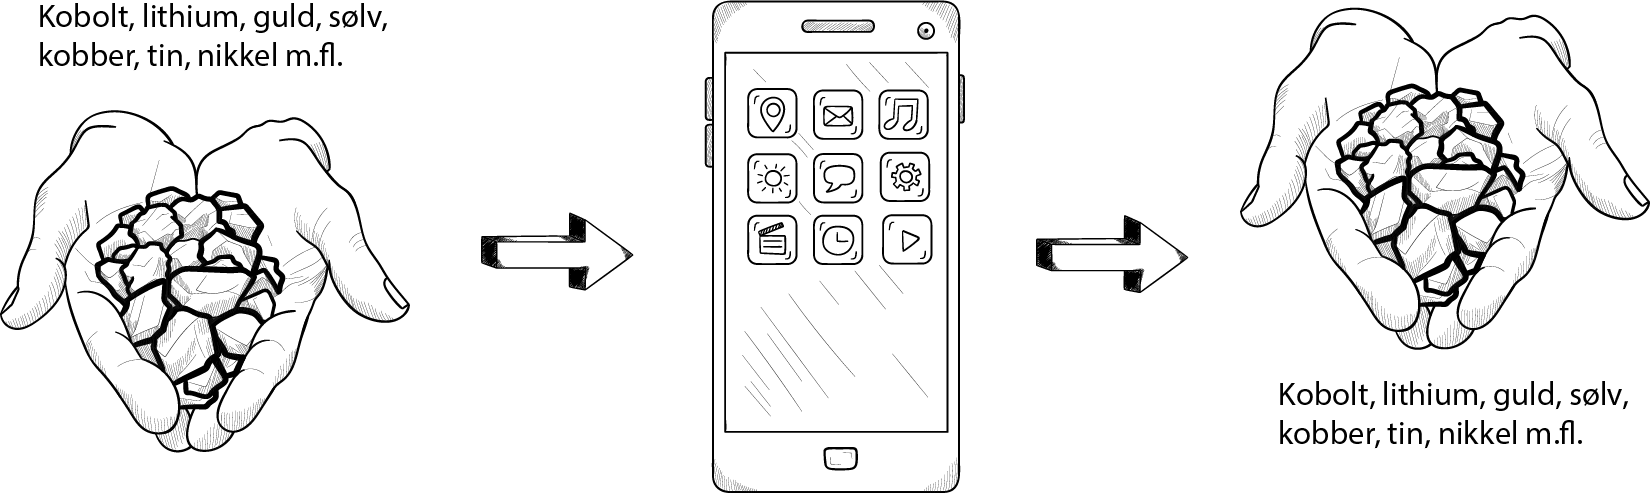
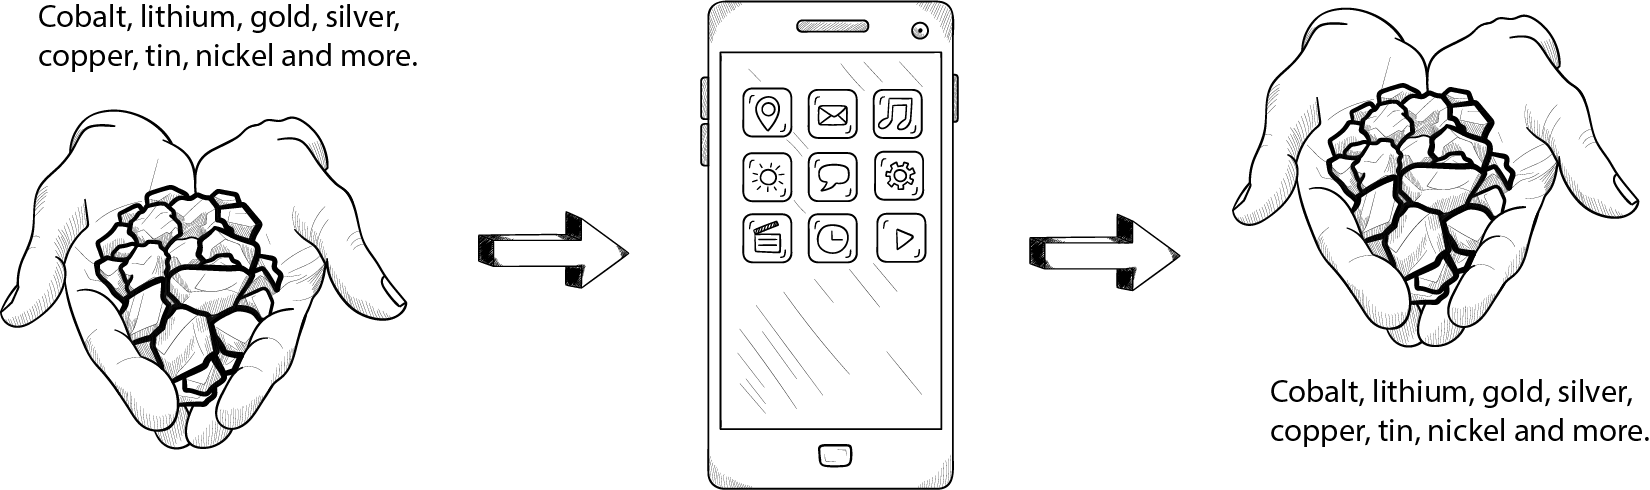
Still chapter one, but now also images, sources and internal links

diff --git a/manuscript/1-Introduction-to-sustainability.md b/manuscript/1-Introduction-to-sustainability.md
@@ -7,7 +7,17 @@ The goal of this chapter is to give you a glimpse of the great complexity which 
 When working with sustainability, these different disciplines are intertwined, requiring a holistic approach from those of us working with the digital aspects of sustainability.
 ## Why is sustainability important right now?
 
-Let's go through some weighty theories that empasize the urgency of taking action for sustainability in all areas, including the digital.
+Let's go through some weighty theories that empasize the urgency of taking action for sustainability in all areas, including the digital. Read about:
+
+- [The Anthropocene](#Anthropocene)
+- [Mass extinction](#mass-extinction)
+- Great Acceleration
+- Planetary boundaries
+- Climate change
+- Digital transformation
+- Your responsibility
+
+{#Anthropocene}
 ### 🛣️ This is the age of the Anthropocene
 The Anthropocene is the name of en epoch, beginning in the 20th century, in which human activities are affecting life on Earth to such an extent that they are causing both local and global changes in the global state of the Earth.  
 
@@ -16,6 +26,8 @@ In the past, geological processes had the greatest influence on life on Earth an
 This change is comparable to the major geological impacts on Earth in the past, such as major volcanic eruptions and meteor impacts. The Anthropocene Age heralds new times where humanity is not only responsible for its own future, but also holds the future of the entire planet in its hands.
 
 The human emission of greenhouse gases is one example, and the consequences for soil, plant and animal life, and thus for human life, are enormous.
+
+{#mass-extinction} 
 ### Sixth  mass extinction on the horizon 🦖
 In biology and ecology, we are also witnessing a historic and global event that scientists describe as the sixth great mass extinction, a process in which a great part of the Earth's different animal species become extinct within decades or centuries. The time we live in can be compared to the time when the dinosaurs went from being the dominant species on Earth to mass extinction.
 
@@ -34,33 +46,41 @@ Scientists have estimated limits for Earth's planetary subsystems in which human
 
 Developments in recent decades show that, unfortunately, we are increasingly exceeding these limits for sustainable global development, and that there is a risk of serious global consequences if we do not begin to respect these limits as soon as possible.
 ### Climate change 🌪️
-Current global development is neither durable nor sustainable. In the coming decades, we must turn all industrial (and digital) development in a sustainable direction to enable people to live a good life. We must be able to continuously improve and develop our world without fearing the long-term consequences of our actions in the form of droughts, floods, destruction of rainforests and landscapes, major political challenges, migration, and loss of life. We have an ethical obligation to protect nature, which is our origin and our future.
+Current global development is neither durable nor sustainable. In the coming decades, we must turn all industrial (and digital) development in a sustainable direction to enable people to live a good life. 
 
-With the help of scientists who continuously monitor this trend, a number of actions are underway globally that aim to change the trend to something more sustainable. But we will need every effort. That's why it's important that we incorporate sustainability into all our activities - including digital ones.
+We must be able to continuously improve and develop our world without fearing the long-term consequences of our actions in the form of droughts, floods, destruction of rainforests and landscapes, major political challenges, migration, and loss of life. We have an ethical obligation to protect nature, which is our origin and our future.
 
-### Information technology and digitization
-Information technology and digitization are amazing entities that day after day surprise us with the latest inventions, opportunities and challenges, shedding light on new aspects of our everyday lives - and our existence.
+With the help of scientists who continuously monitor global climate change, a number of actions are underway globally that aim to change the trend to something more sustainable ([Science Based Targets initiative](https://sciencebasedtargets.org/)). But we will need every effort. That's why it's important that we incorporate sustainability into all our activities - including digital ones.
+### Information technology and digital transformation 📡
+Information technology and digital transformation are amazing entities that surprise us every day with the latest inventions, opportunities and challenges, shedding light on new aspects of our everyday lives - and our existence.
 
-Social media, virtual worlds, sensor networks, autonomous agents, artificial intelligence, generative AI, machine learning, Internet of Things (IoT), data science.. All these IT concepts have emerged in recent years and are still evolving - while changing our world.
+Social media, virtual worlds, sensor networks, autonomous agents, artificial intelligence, generative AI, machine learning, Internet of Things (IoT), data science... All of these IT concepts have emerged in recent years and are still evolving as they change our world.
 
-Modern IT is accelerating science and research, and the computing power of processors and the efficiency of algorithms is growing year after year. It is now the pace of human cognition that is limiting the speed of development.
+Modern IT is accelerating science and research, and the computing power of processors and the efficiency of algorithms are increasing every year. It is now the speed of human cognition that limits the speed of development.
 
-IT and digitalization are two sides of the same coin. Digitalization focuses on people, organizations and their processes, and information technology focuses on the digital technologies themselves.
+Information technology and digital transformation are two sides of the same coin. Digital transformation focuses on people, organizations and their processes, and information technology focuses on the digital technologies themselves.
 
-- Digitization is the use of information technology by people and organizations.
-- Information technology is hardware, software and networks. Electronics, algorithms and systems.
+- Digital transformation is the use of information technology by people and organizations.
+- Information technology consists of hardware, software and networks: Electronics, algorithms and systems.
 
-There is no digitalization without technology, and technology also makes the most sense when viewed in the context of the people and organizations that use it. IT (like all technology) is artificial and man-made, and as such it is in direct opposition to nature and the environment.
-Nevertheless, technology and nature must be able to coexist in a mutual and positive interaction. And this is where sustainability must help create an inventive balance and exchange between technology, people, nature and the environment.
+![Technology and nature are opposites. But they shouldn't have to be.](resources/1.2.png "Technology and nature are opposites. But they shouldn't have to be.")
 
-### The individual's responsibility
-As an information technology and digitalization professional, what is your role in this global equation? Can IT and digitalization contribute to a better world and a more sustainable future if we use technology with long-term thinking?
+There is no digital transformation without technology, and technology also makes the most sense when viewed in the context of the people and organizations that use it. IT (like all technology) is artificial and man-made, and as such is in direct opposition to nature and the environment.
+
+However, technology and nature must be able to coexist in mutual and positive interaction. And this is where sustainability must help create an inventive balance and exchange between technology, people, nature and the environment.
+### Your responsibility
+As an information technology and digital professional, what is your role in this global equation? Can IT and digital development contribute to a better world and a more sustainable future if we use technology with long-term thinking?
 
 You may not be able to solve the sixth mass extinction event and balance nature in the Anthropocene era overnight, but many small steps - including your professional contribution to the sustainability agenda - will contribute to positive change in the world.
- 
 ## Sustainability concepts
-Let's continue by reviewing the key concepts that form the basis for working with sustainable digitalization in general. You may already be familiar with some of the concepts, but hopefully you can also read up on something new and exciting.
+Let's continue by reviewing the key concepts that form the basis for working with sustainable digital development in general. You may already be familiar with some of the concepts, but hopefully you can also read up on something new and exciting.
 
+- [Definition of sustainability](#Definition-of-sustainability)
+- Unsustainability
+- The hurdles to sustainability
+- ...
+
+{#Definition-of-sustainability}
 ### Definition of sustainability
 We can see sustainability as a path towards a brighter and more stable world both on an individual, societal and environmental level. Sustainability is a kind of long-term development where nature and the environment are respected and thrive.
 
@@ -68,44 +88,47 @@ Sustainable development helps us avoid major disasters in the future by addressi
 
 There are different definitions of sustainability, but one of the newer and more recognized definitions comes from the UN, which in 1983 established a World Commission on Environment and Development headed by the then Norwegian Prime Minister Gro Harlem Brundtland. The Commission's work resulted in a publication entitled Our Common Future - The Brundtland Commission Report on Environment and Development. 
 
-The report defines sustainable development as *"development that meets the needs of the present without compromising the ability of future generations to meet their own needs"* (Brundtland Commission 1987: XX). This definition is a good starting point for our work, but in the following we will also look at sustainable development from other angles. If sustainability is something that protects the possibilities of future generations, what is the opposite? Let's take a look at "unsustainability".
+The report defines sustainable development as *development that meets the needs of the present without compromising the ability of future generations to meet their own needs*. This definition is a good starting point for our work, but in the following we will also look at sustainable development from other angles. If sustainability is something that protects the possibilities of future generations, what is the opposite? Let's take a look at "unsustainability".
 ### Unsustainability
-Unsustainable products and services are defined by the fact that they often have serious, unwanted and far-reaching adverse impacts.
+Unsustainable products and services are defined by the fact that, despite their good value, they often have serious, unintended and far-reaching negative impacts in the long term.
 
-![Unsustainability](1.2.png "Unsustainability. The figure shows the short-term benefits and long-term problems that can be associated with unsustainable products.")
+|                                      | **Short-term (here and now) gain**                       | **Serious problems in the long term**                                                                                   |
+| ------------------------------------ | -------------------------------------------------------- | ----------------------------------------------------------------------------------------------------------------------- |
+| **Pesticides such as glyphosate**    | Weed-free areas                                          | Poisoned drinking water, destroyed biodiversity                                                                         |
+| **Fossil fuels**                     | Efficient and cheap energy source                        | Climate change, natural disasters                                                                                       |
+| **Plastic materials**                | Inexpensive and versatile material for many applications | Plastic waste and microplastics are flooding the world's ecosystems                                                     |
+| **Cryptocurrencies such as Bitcoin** | Decentralized, international digital currency            | Huge energy consumption and emissions, and available for criminal application                                           |
+| **Smartphones**                      | Effective and entertaining communication tool            | Environmental and social issues related to the extraction and recycling of materials; addiction-like problems for users |
+The table above provides some examples of unsustainable products that may create great value in the short term, but have serious negative consequences in the long term.
 
-Figure 1.2 provides some examples of unsustainable products that may create great value in the short term, but have serious negative consequences in the long term.
+For example, herbicides are effective in controlling weeds, but over the years they can leak into the groundwater and poison our drinking water. It may not happen immediately, but over decades they can poison the water we depend on as people and as a society (Faartoft 2024).
 
-Take herbicides, for example, which on the one hand are effective for managing plant areas, but on the other hand, over the years they seep into the groundwater and thereby poison our drinking water. It may not happen immediately, but over decades it can poison the water that we depend on as humans and society (Faartoft 2024).
-
-The use of fossil fuels is another example of unsustainable products, partly because we will run out of them at some point in the future and partly because their use contributes to climate change. Climate change does not happen immediately, but over many decades. Perhaps we can already sense the consequences, not least when we experience record high temperatures, record rainfall and record wind speeds (Jungersen & Stiesdal 2024). Other examples of unsustainable practices are:
+The use of fossil fuels is another example of an unsustainable product, partly because we will run out of them at some point in the future, and also because their use contributes to climate change. Climate change does not happen immediately, but over many decades. We may already be feeling the effects, not least as we experience record high temperatures, record rainfall and record wind speeds (Jungersen & Stiesdal 2024). Other examples of unsustainable practices are:
 
 - Using more energy than necessary
-- Consuming the earth's resources such as water and minerals without thinking of alternatives
+- Consuming the earth's resources such as water and minerals without considering alternatives
 - Draining nature's resources without ensuring that the equivalent is returned to nature.
 
-Making short-term solutions is like peeing your pants because you're cold: it'll warm you up a bit at first, but it'll be even colder in the long run. So from a holistic point of view, it's a good idea not to do it.
-
-All in all, it is unsustainable to create short-term solutions that have unwanted repercussions in the long run, even if these repercussions appear much later, or in places other than where the solutions work (for example, smartphone use in Europe leads to pollution in Africa and Asia).
-
-### The hurdles of sustainability
+Short-term solutions are like taking painkillers for a broken leg without addressing the fracture — they relieve the discomfort for the moment, but the underlying problem remains and may get worse over time. So from a holistic point of view, it's better to make long-term efforts to ensure a good future than to gain short-term benefits. Overall, it is unsustainable to create short-term solutions that have undesirable long-term effects, even if those effects occur much later or in places other than where the solutions work (e.g., smartphone use in Europe leads to pollution in Africa and Asia).
+### The hurdles to sustainability
 But why aren't we all working sustainably if it's so smart? There are several reasons - here are four selected examples of obstacles to sustainable development:
 
-1. It is difficult to predict the long-term and far-reaching consequences of our activities. Many of the behaviors we have developed throughout history turn out to be fundamentally unsustainable. Innovations that seem groundbreaking and beneficial on the surface - such as pesticides or materials like asbestos - have proven to be seriously harmful in the long run. Over time, however, we can become better at thinking more long-term and learning from past mistakes. This accumulated insight is valuable and can be actively used and integrated into decision-making processes to promote a sustainable future.
+1. **It is difficult to predict the long-term and far-reaching consequences of our actions.** 
+   Many of the behaviors we have developed throughout history are proving to be fundamentally unsustainable. Innovations that seem groundbreaking and beneficial on the surface - such as pesticides or materials like asbestos - have turned out to be seriously harmful in the long run. Over time, however, we can become better at taking the long view and learning from past mistakes. This accumulated knowledge is valuable and can be actively used and integrated into decision-making processes to promote a sustainable future.
    
-2. Working sustainably is more cost-effective in the short term than not. For example, IT companies can choose to build data centers connected to renewable energy sources, which means that the data center will have no direct greenhouse gas emissions. Great solution, but it's immediately more expensive than connecting the data center to the electricity grid, which doesn't require an investment in its own power plant. Conversely, if the renewable energy plant works well, the data center will get cheap power in the future and the profit on the data center will increase over the years if its own wind turbines, solar panels, hydrogen plants or batteries manage to produce cheaper power than the market price.
+2.  **In the short term, working sustainably is more cost-effective than not working sustainably.** For example, IT companies can choose to build data centers together with renewable energy sources, which means the data center doesn't have any direct greenhouse gas emissions. That's a great solution, but it's initially more expensive than connecting the data center to the regular power grid, which doesn't require an investment in its own power plant. Conversely, if the renewable energy plant works well, the data center will get cheap electricity in the future, and the data center's profit will increase over the years as its own wind turbines, solar panels or other renewable sources manage to produce electricity cheaper than the market price.
    
-3. There are a record number of people on the planet and everyone wants a better standard of living. This is leading to unprecedented growth in production and consumption, which we can only address if we can reduce this increased (and still growing) environmental footprint.
+3. **There are a record number of people on the planet and everyone wants a better standard of living.** This is leading to unprecedented growth in production and consumption, which we can only manage if we can reduce this increased (and still growing) environmental footprint.
    
-4. It's more altruistic to work sustainably, i.e. it requires respect and consideration for all other people on the planet, but unfortunately not everyone cares about their fellow human beings, future generations - or the environment for that matter. The negative effects of a company's operations are often far removed from the everyday life of the organization in terms of both time and place, making them easy to overlook or neglect.
+4. **It is more altruistic to work sustainably**, i.e. it requires respect and consideration for the benefit of the planet, but unfortunately not everyone cares equally about the planet, fellow humans, future generations - or the environment. The negative impacts of a company's operations are often far removed from the everyday life of the organization, both in terms of time and place, making them easy to overlook or neglect.
    
-Let's look at an example from the digital world where the above comes to life: a smartphone. Using a smartphone has become an everyday occurrence for most people, and this simple everyday action has far-reaching global consequences, as smartphones are made from naturally occurring minerals (see Figure 1.3).
+Let's look at an example from the digital world where the above comes to life: a smartphone. Using a smartphone has become an everyday occurrence for most people, and this simple everyday action has far-reaching global consequences, as smartphones are made from naturally occurring minerals (see Figure 3).
 
-![Smartphones are made of stone](1.3.png "It's fascinating to think that a smartphone is made up of refined minerals extracted from nature and powered by energy. Ultimately, all technology is a collection of minerals and energy. The more circular the production and use of technology becomes, the more sustainable the future can be.")
+![Smartphones are made of stone](1.3.png "It's fascinating to think that a smartphone is made up of refined stones (minerals) extracted from nature and powered by energy from nature. Ultimately, all technology is a collection of minerals and energy. The more circular the production and use of technology becomes, the more sustainable the future can be.")
 
-The extraction of the minerals used in smartphones involves environmental pollution, child labor, deforestation and health problems associated with working in mines in Africa. Assembly line work in Asia can take place in poor working conditions. Not least, the applications that run on smartphones can have a bad impact on smartphone users. But this is not something we think about. When owning a smartphone has become commonplace, it's hard to consider the long-term consequences because it's relatively vague and far removed from your own reality. So it's easier not to think about it.
+The extraction of minerals used in smartphones involves pollution, child labor, deforestation, and health problems associated with working in mines in Africa. Assembly line work in Asia may involve poor working conditions. Last but not least, the applications that run on smartphones can have a bad impact on smartphone users. But this is not something we often think about. When owning a smartphone has become commonplace, it's hard to think about the long-term consequences because it's relatively vague and far removed from your own reality. So it's easier not to think about it.
 
-In an ideal world, the manufacturer and legislation would try to concretize the resulting problems and try to do something about them. The Dutch smartphone manufacturer Fairphone, for example, does this by visiting the cobalt mines in Congo and launching a program to improve working conditions in the mines based on their experiences during the visit (Angela 2023). Are they obligated to do so? No, they are not. They are doing it primarily for the sake of the Congolese, and in return, Fairphone can position its smartphone as a greener and fairer phone. However, these actions are not free and their phones are therefore relatively expensive compared to the competition.
+In an ideal world, manufacturers and legislators would try to make the resulting problems explicit and do something about them. The Dutch smartphone manufacturer Fairphone, for example, does this by visiting the cobalt mines in Congo and launching a program to improve working conditions in the mines based on their experiences during the visit ([Angela 2023](https://www.fairphone.com/en/2023/03/02/sticking-with-cobalt-blue/)). Are they obligated to do this? No, they are not. They are doing it first and foremost for the Congolese people, and in return Fairphone can position its smartphone as a greener and fairer phone. However, these actions do not come for free and their phones are therefore relatively expensive compared to the competition.
 
 ### Recognizing and accepting risks for the future
 It is clear that we cannot fully guard against all future unintended consequences when developing new solutions. By its very nature, you cannot devise and develop measures against risks that you are not able to foresee.
@@ -121,7 +144,7 @@ It is also the most visible aspect of sustainability at the moment because socie
 
 Velux's plan is both forward-thinking and sympathetic. There is no law obliging companies to compensate for their past emissions or to become CO2-neutral by 2031, yet Velux is devoting resources to support this development. Velux is working with external partners to estimate past greenhouse gas emissions and to sequester equivalent amounts of CO2 in forests in countries such as Uganda, Madagascar and Vietnam.
 
-Although the Velux example is not directly related to IT and digitalization, the company demonstrates an action that digital companies can also benefit from trying. As a hosting company, you can, for example, compensate for the greenhouse gas emissions you have emitted over time.
+Although the Velux example is not directly related to IT and digital development, the company demonstrates an action that digital companies can also benefit from trying. As a hosting company, you can, for example, compensate for the greenhouse gas emissions you have emitted over time.
 
 ### Greenwashing
 Are Velux's initiatives really having an impact on a global scale or are they drowning in the big picture? Velux's initiatives can be seen as a small step in the right direction, but much more is needed to reverse the trend.
@@ -147,7 +170,7 @@ Other important concepts in sustainability work are ecology and ecosystems . In 
 
 Ecosystems form the basis of all life on earth and without them we cannot survive as humans. We are part of the ecosystem whether we like it or not. Without this biosphere  we cannot easily exist as humans.
 
-This is why it is essential to be able to think in ecosystems when working with sustainable digitalization ; to see the development of company products in an ecological context. Ecology and understanding the interconnectedness of ecosystems provides useful knowledge about how our actions affect the environment on a systemic level.
+This is why it is essential to be able to think in ecosystems when working with sustainable digital development ; to see the development of company products in an ecological context. Ecology and understanding the interconnectedness of ecosystems provides useful knowledge about how our actions affect the environment on a systemic level.
 
 Some of the principles of ecology can be found in sustainability work in information technology. Both ecosystems and IT systems require a systemic understanding, and in IT we can also talk about "ecosystems". Just as apple trees cannot reproduce without the insects that pollinate them, the Android smartphone operating system cannot succeed without its own digital ecosystem . What this means is that Android would not be the same without the many phone types, apps and users that make up the product's unique ecosystem, and Android smartphones would lose essential features without the many developers who provide millions of apps for the phones.
 
@@ -310,7 +333,7 @@ In a circular economy, products and materials are kept in circulation through pr
 The coming decades call for the production of information technology to become so circular that the use and reuse of, for example, a mobile phone has no greater environmental impact than picking a fruit from a tree. The life cycle of our IT equipment must be carefully designed to follow the "cradle to cradle " (cradle to cradle) principle. The cradle to cradle concept is that end-of-life products should form the basis for new ones, without becoming waste (Hauschild 2021). While a life cycle in the traditional sense refers to a cradle-to-grave process, the cradle-to-cradle concept is without a "grave" because the end of one product becomes the beginning of a new one. In other words, the materials that go into the production of our hardware in digital systems must be reused all the way to the creation of new products.
 
 ### Beware of the rebound effect
-Digitalization often creates a lot of value because it can streamline many processes. Something that takes a long time to complete manually can be done in a snap with the right IT solutions. But not all streamlining can pay off.
+digital development often creates a lot of value because it can streamline many processes. Something that takes a long time to complete manually can be done in a snap with the right IT solutions. But not all streamlining can pay off.
 
 The rebound effect is the name given to the phenomenon that efficiency improvements can lead to increased consumption. In other words, making a technology more efficient, for example, is not sustainable in itself - as long as this efficiency improvement leads to increased consumption. You can see this phenomenon play out in many contexts: For example, the dramatic increase in access to storage space has not led to us using less memory to store our images, videos and texts - but to us increasing the resolution of the images we take, filming more and saving more documents.
 
@@ -387,12 +410,12 @@ From a sustainability perspective, it is essential that we recognize that the in
 ### Sustainable information technology
 Information technology has both dark sides, such as environmental impact and dependence on social media, and good sides in the form of the opportunities that information technology opens up.
 
-Information technology as such cannot be called sustainable. There is no such thing as sustainable IT or sustainable digitalization. Modern digital technology is not circular, so far we have to constantly add new resources such as minerals and fossil energy to keep the internet running. However, we can see positive changes and more and more IT can run on renewable energy, and the material cycle hardware manufacturing and recycling is also improving. We already recycle a small portion of hardware components, but not yet in ways that ensure the reuse of materials year after year.
+Information technology as such cannot be called sustainable. There is no such thing as sustainable IT or sustainable digital development. Modern digital technology is not circular, so far we have to constantly add new resources such as minerals and fossil energy to keep the internet running. However, we can see positive changes and more and more IT can run on renewable energy, and the material cycle hardware manufacturing and recycling is also improving. We already recycle a small portion of hardware components, but not yet in ways that ensure the reuse of materials year after year.
 
-The extent to which digitalization can become a driving force and key component in solving the current climate crisis is an ongoing discussion, but we, the authors of this book, are optimists because we believe that digitalization can make a positive difference. The following three ideas permeate our (and the book's) approach to sustainable digitalization: the Karlskrona Manifesto, twin transition and digitainability.
+The extent to which digital development can become a driving force and key component in solving the current climate crisis is an ongoing discussion, but we, the authors of this book, are optimists because we believe that digital development can make a positive difference. The following three ideas permeate our (and the book's) approach to sustainable digital development: the Karlskrona Manifesto, twin transition and digitainability.
 
 ### The Karlskrona Manifesto
-Sustainable digitalization is about developing modern technological solutions and products without compromising the living conditions of future generations. It's a complicated issue that we can better address if we can break this goal down into some concrete areas of action.
+Sustainable digital development is about developing modern technological solutions and products without compromising the living conditions of future generations. It's a complicated issue that we can better address if we can break this goal down into some concrete areas of action.
 The Karlskrona Manifesto's sustainable system design guidelines set out five different dimensions of sustainability (Becker et al. 2015):
 
 1.	Individual sustainability refers to positive impact on human capital (e.g. health, education, skills, knowledge, leadership and access to services).
@@ -415,16 +438,16 @@ While the ESG concept targets all kinds of organizations regardless of what they
 ### Twin transition
 The connection between sustainability and IT can be described as a kind of twin transition. Henrik Skaug Sætra, a researcher at the University of Oslo, is working to explore the connection between digital development and green development (Sætra 2023). According to Sætra, we are "in the middle of two different but simultaneous transitions: The digital transition and the green transition". The green transition describes the process of trying to combat environmental issues on a global scale. The digital transition refers to the development that is pulling our society in an increasingly digital direction.
 
-The idea that digitalization can help us solve our sustainability challenges in a simultaneous and dual transition is gaining traction both in the EU and internationally. "Twin transition" is thought to have the potential to create positive synergies between digital and green development. For example, a district heating plant can retrieve automatic forecasts for weather, energy prices and heat consumption and can, through digital control, optimize the operation of production so that district heating can be produced in the most efficient way (Danish District Heating 2023).
+The idea that digital development can help us solve our sustainability challenges in a simultaneous and dual transition is gaining traction both in the EU and internationally. "Twin transition" is thought to have the potential to create positive synergies between digital and green development. For example, a district heating plant can retrieve automatic forecasts for weather, energy prices and heat consumption and can, through digital control, optimize the operation of production so that district heating can be produced in the most efficient way (Danish District Heating 2023).
 
 The big challenge with the "twin transition" is that all digital development also has a negative climate footprint from the hardware and energy used. So in digital projects with a positive sustainability aim, the positive impact of the project must be significantly greater than the negative effects of the technology used. In the case of the district heating plant, the optimization gains must be significantly greater than the derived negative environmental effects of the new digital control system. In addition, it is also important to take into account the rebound effect and make it likely that increased efficiency will not ultimately lead to even higher consumption.
 
 ### Digitainability
-While "twin transition" focuses on exploring the connection between green and digital development, the concept of "digitainability" goes further by presenting the idea that we can combine the development of sustainability and digitalization in practice and, in this way, contribute to a more sustainable future.
+While "twin transition" focuses on exploring the connection between green and digital development, the concept of "digitainability" goes further by presenting the idea that we can combine the development of sustainability and digital development in practice and, in this way, contribute to a more sustainable future.
 
-The term digitainability is a contraction of the words digitalization and sustainability. The concept was developed by Shivam Gupta et al. in order to support the UN 's Sustainable Development Goals with digital tools (Gupta et al. 2020). The concept of digitainability combines digital innovation and sustainability principles as a tool to create technological solutions that not only promote economic growth, but also protect the environment and support social responsibility.
+The term digitainability is a contraction of the words digital development and sustainability. The concept was developed by Shivam Gupta et al. in order to support the UN 's Sustainable Development Goals with digital tools (Gupta et al. 2020). The concept of digitainability combines digital innovation and sustainability principles as a tool to create technological solutions that not only promote economic growth, but also protect the environment and support social responsibility.
 
-Gupta is also a climate optimist, arguing, among other things, that the "cross-fertilization" of digital and sustainability strategies can revolutionize the way we develop and use technology. He has presented a simple tool called DSM (Digitalization-Sustainability Matrix) that can be used by interdisciplinary groups to explore the digitainability potential of different development scenarios (Gupta et al. 2020).
+Gupta is also a climate optimist, arguing, among other things, that the "cross-fertilization" of digital and sustainability strategies can revolutionize the way we develop and use technology. He has presented a simple tool called DSM (digital development-Sustainability Matrix) that can be used by interdisciplinary groups to explore the digitainability potential of different development scenarios (Gupta et al. 2020).
 
 ## Summary: What can you take away from this chapter?
 We've reached the end of the first chapter and you can breathe a sigh of relief. You've been introduced to the broad outlines of sustainable development and hopefully learned some new concepts and refreshed some others.
@@ -446,4 +469,4 @@ Ask yourself questions like:
 - How can I improve what I do today to make it climate neutral and/or ethically sound?
 - How can my activity support the criteria of the Karlskrona Manifesto or some relevant UN Global Goals?
 
-The upcoming chapters will provide you with knowledge and tools that you can bring into play in your daily work. In the next chapter, we will look at theories on how systems work in general and how we can model, understand and influence systems in a desired direction. This is the final theory chapter, after which we will focus more on the professional practice digitalization and information technology.
+The upcoming chapters will provide you with knowledge and tools that you can bring into play in your daily work. In the next chapter, we will look at theories on how systems work in general and how we can model, understand and influence systems in a desired direction. This is the final theory chapter, after which we will focus more on the professional practice digital development and information technology.

diff --git a/manuscript/12-Bibliography.md b/manuscript/12-Bibliography.md
@@ -5,7 +5,9 @@ Abbing, R.R. (2021) 'This is a solar-powered website, which means it sometimes g
 Andersen, H. (2024). Systems theory. The Great Danish, March 5. https://denstoredanske.lex.dk/systemteori
 Andersen, L.H. (2021). Russia is ready to cut itself off from the global internet. Version2, February 2. version2.dk/artikel/rusland-er-klar-til-afskaere-sig-fra-det-globale-internet
 Andre, P., Boneva, T., Chopra, F. et al. (2024). Globally representative evidence on the actual and perceived support for climate action. Nature Climate Change, 14(3), 253-259. https://doi.org/10.1038/s41558-024-01925-3
-Angela (2023). Sticking with Cobalt Blue. Fairphone, March 2. https://www.fairphone.com/en/2023/03/02/sticking-with-cobalt-blue/
+
+!!OK!! Angela (2023). Sticking with Cobalt Blue. Fairphone, March 2. https://www.fairphone.com/en/2023/03/02/sticking-with-cobalt-blue/
+
 Apple (2024). Apple 2030 - A plan as innovative as our products. https://www.apple.com/environment/
 Balslev, J., Carlsen, S. & Tolstrup, P. (2024). Do Make me Think - Towards an Integrated Model for Sustainable UX Design. DTRS14 Proceedings.
 Barabási, A.-L. & Pósfai, M. (2016). Network Science. Cambridge University Press.
@@ -45,7 +47,9 @@ Europacapable (2022). Europacapable Whitepaper on Energy Efficiency. https://eur
 European Commission (2024). Green Digital Sector. https://digital-strategy.ec.europa.eu/en/policies/green-digital
 European Data Protection Board (2023). Guidelines 03/2022 on Deceptive Design Patterns in Social Media Platform Interfaces: How to Recognize and Avoid Them. https://www.edpb.europa.eu/our-work-tools/our-documents/guidelines/guidelines-032022-deceptive-design-patterns-social-media_en
 European Environment Agency (2021/2023). Sustainability: What are the alternatives to economic growth? https://www.eea.europa.eu/highlights/sustainability-what-are-the-alternatives"https://www.eea.europa.eu/highlights/sustainability-what-are-the-alternatives
-Faartoft, M. B. (2024, March 5). See the map: How often pesticide residues are found in drinking water wells in your municipality. Danish Society for Nature Conservation. https://www.dn.dk/nyheder/se-kortet-sa-ofte-bliver-der-fundet-pesticidrester-i-drikkevandsboringer-i-din-kommune/
+
+!!OK!! Faartoft, M. B. (2024, March 5). See the map: How often pesticide residues are found in drinking water wells in your municipality. Danish Society for Nature Conservation. https://www.dn.dk/nyheder/se-kortet-sa-ofte-bliver-der-fundet-pesticidrester-i-drikkevandsboringer-i-din-kommune/
+
 Fairphone Community (2024). Fairphone Community - On a Journey to Change the Electronics Industry. Fairphone.com. https://www.fairphone.com/en/community/
 Flyverbom, M. (2023). "Foreword". In Democratic control of tech giants' business models. Ministry of Business and Industry: 4-5. https://em.dk/Media/638259804674509194/anbefalinger-fra-tech-ekspertgruppe.pdf
 UN Sustainable Development Goals (2020). The 17 Global Goals. https://www.verdensmaalene.dk/maal
@@ -79,7 +83,9 @@ Jensen, A. (2024). Are you alarmed or indifferent? New study reveals Danes' atti
 Jevons, W.S. (1866). The Coal Question; An Inquiry Concerning the Progress of the Nation and the Probable Exhaustion of Our Coal Mines. Macmillan.
 josephranseth (2015). Gandhi didn't actually say "Be the change you want to see in the world." Here's the real quote... Joseph Ranseth, August 27. https://josephranseth.com/gandhi-didnt-say-be-the-change-you-want-to-see-in-the-world/
 Juel-Jacobsen, L.G. (2024). Sustainable business studies. Samfundslitteratur.
-Jungersen, R. & Stiesdal, P. (2024). Global temperatures have now broken heat records for 12 months in a row. DR, June 4. https://www.dr.dk/nyheder/viden/klima/globale-temperaturer-har-nu-slaaet-varmerekord-12-maaneder-i-traek
+
+!!OK!! Jungersen, R. & Stiesdal, P. (2024). Global temperatures have now broken heat records for 12 months in a row. DR, June 4. https://www.dr.dk/nyheder/viden/klima/globale-temperaturer-har-nu-slaaet-varmerekord-12-maaneder-i-traek
+
 Kastner Research Group (2023). Junkyard Computing. April 2. https://kastner.ucsd.edu/junkyard-computing/.
 Kato, J. & Shimakage, K. (2020). Rethinking Programming "Environment": Technical and Social Environment Design Toward Convivial Computing. Programming '20: Companion Proceedings of the 4th International Conference on Art, Science, and Engineering of Programming, 149-157. https://doi.org/10.1145/3397537.3397544
 Kelvey, J. (2024). Understanding the misunderstood Kessler Syndrome. Aerospace America, March.

diff --git a/TODO.md b/TODO.md
@@ -1,12 +1,6 @@
 Frontpage
 https://unsplash.com/photos/a-close-up-view-of-a-patch-of-grass-cn8bE9Tvsac
-Szia Hunor,
 
-Nagyon tetszik az egyik képed (https://unsplash.com/photos/a-close-up-view-of-a-patch-of-grass-cn8bE9Tvsac) 
-
-Szeretném címlapborítónak használni egy könyvemhez. Szted lehetséges?
-
-Üdv! András
 
 
 - Remove Tweet this book
@@ -14,6 +8,8 @@ Szeretném címlapborítónak használni egy könyvemhez. Szted lehetséges?
 - Clarify intentions - better introduction! 
 - Explain twin transition (obs beskrevet senere i kapitlet), digital sustainability, sustainable digital in the intro
 - Add image to chapter 0 from the Illustrator file
+- Digital transformation vs digital transition
+- Note on, that some references are not in english, they are not linked, might be replaced. Until than, translate
 
 - Migrate stuff to Codeberg
 